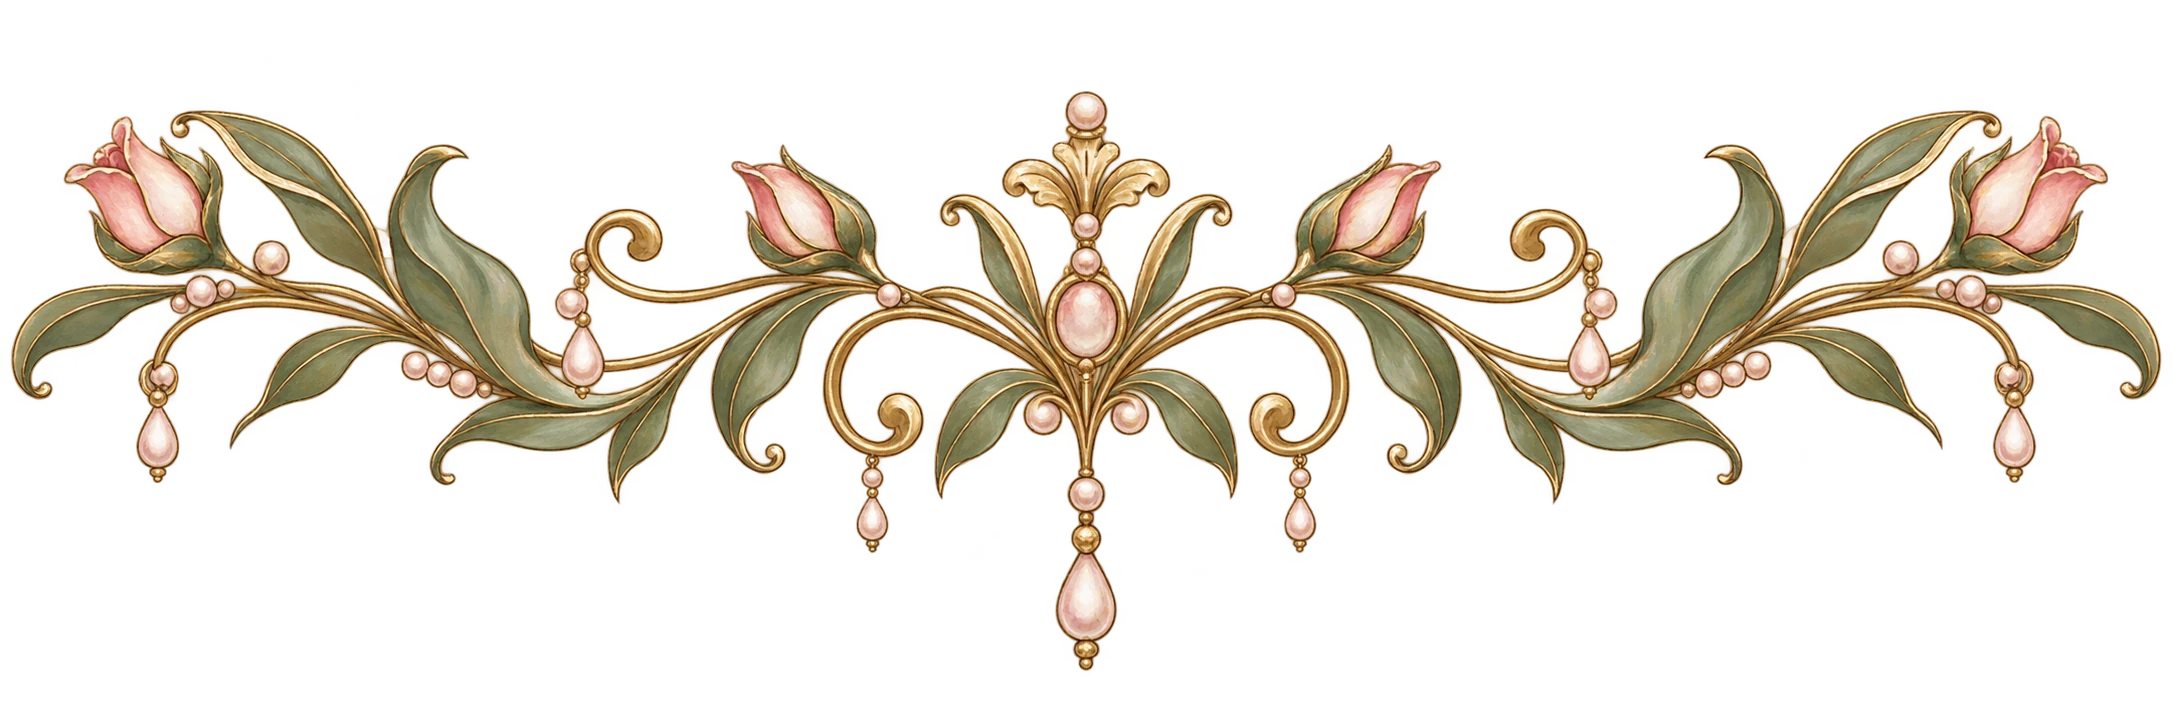
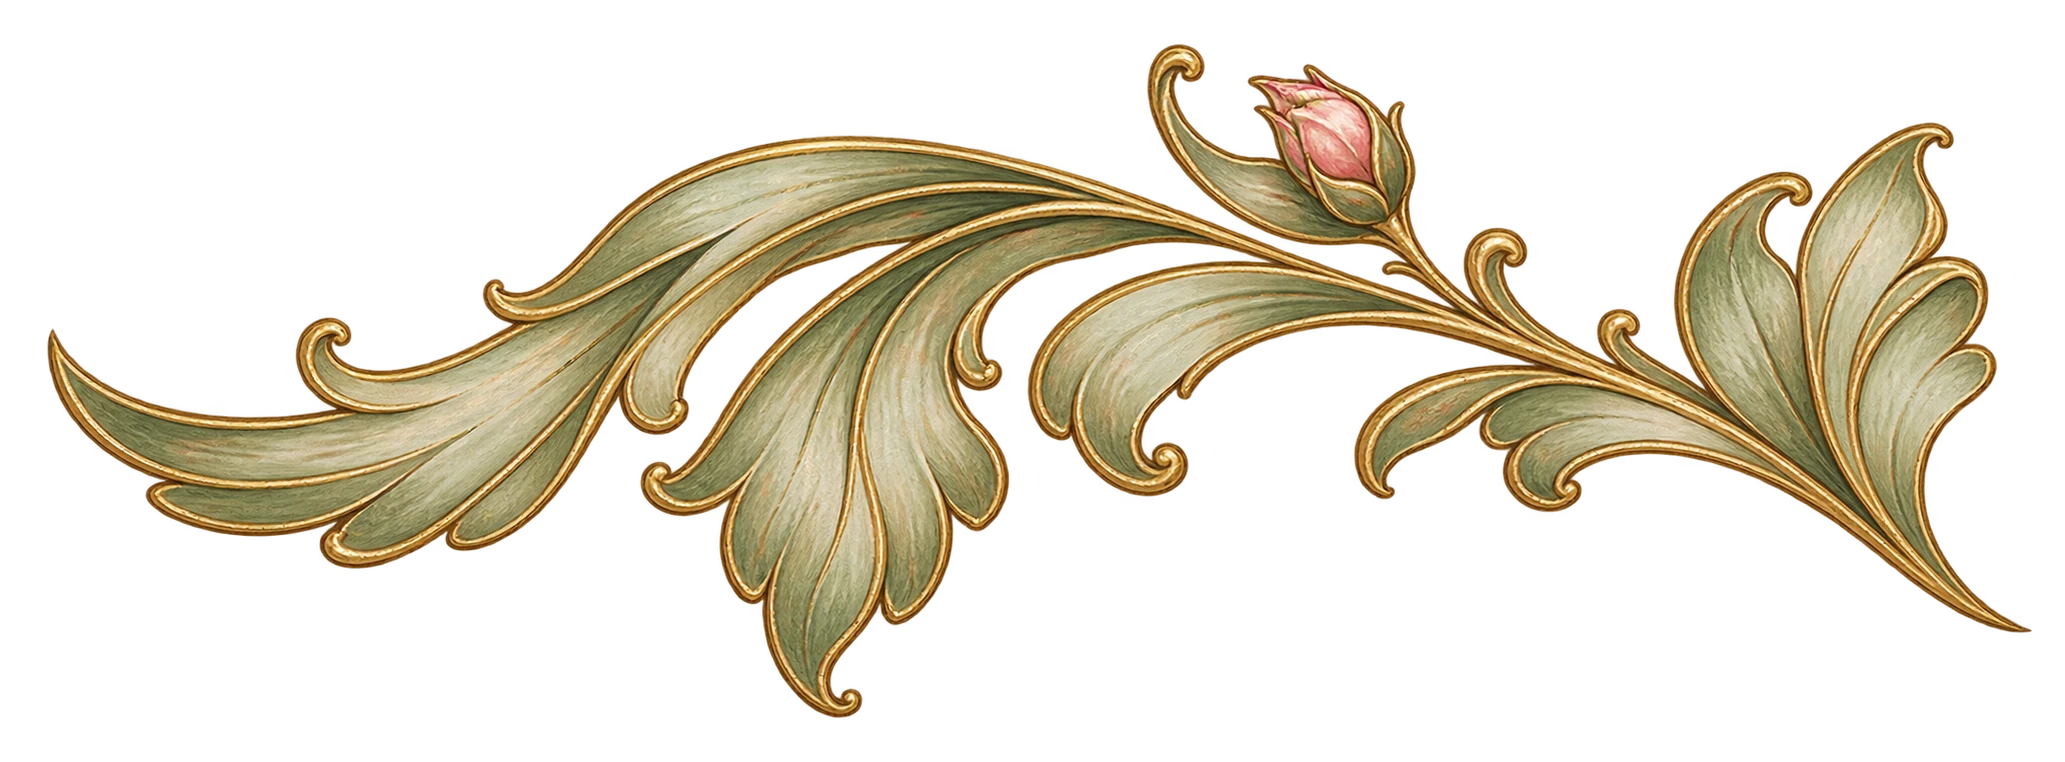
Refine Fairest dividers and sheet alignment

diff --git a/game-lines/changeling/styles/sheet-theme.css b/game-lines/changeling/styles/sheet-theme.css
@@ -321,10 +321,18 @@
 
   .app-shell:has([data-changeling-sheet-theme="fairest"])
     .ctl-sheet:not(.mobile-character-sheet)
+    .cod-sheet-title > div {
+    width: 100%;
+    justify-content: center;
+  }
+
+  .app-shell:has([data-changeling-sheet-theme="fairest"])
+    .ctl-sheet:not(.mobile-character-sheet)
     .cod-sheet-title .ctl-title-mark {
     width: 480px;
     max-width: 100%;
-    translate: 30px -5px;
+    background-position: center;
+    translate: 0 -5px;
   }
 
   .app-shell:has([data-changeling-sheet-theme="fairest"])
@@ -383,6 +391,17 @@
     translate: 5px 5px;
     scale: 1.095;
     transform-origin: center;
+  }
+
+  .app-shell:has([data-changeling-sheet-theme="fairest"])
+    .ctl-sheet .kith-skill-middle-2 {
+    translate: 0 -1px;
+  }
+
+  .app-shell:has([data-changeling-sheet-theme="fairest"])
+    .ctl-sheet .kith-skill-right {
+    translate: 0 -0.5px;
+    transform-origin: left center;
   }
 
 

diff --git a/lib/app-version.ts b/lib/app-version.ts
@@ -1,3 +1,3 @@
 // Generated automatically by scripts/build-verified.mjs.
 // Do not edit manually.
-export const APP_VERSION = "2026.10.11-8d7c580";
+export const APP_VERSION = "2026.10.11-47c4b0a";

diff --git a/public/sw.js b/public/sw.js
@@ -1,4 +1,4 @@
-const VERSION = "2026.10.11-8d7c580";
+const VERSION = "2026.10.11-47c4b0a";
 const CACHE = `characters-of-the-darkness-${VERSION}`;
 
 const SHELL = [
